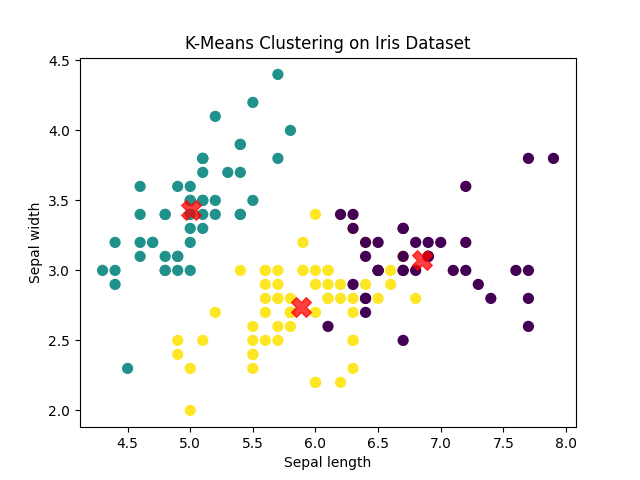
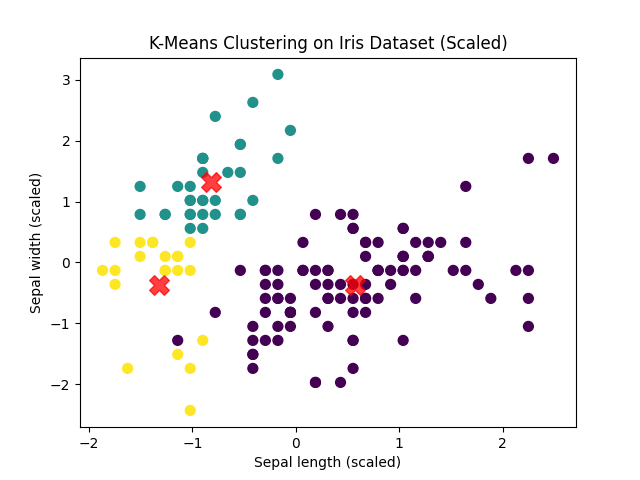
Refactor programs to use StandardScaler and custom distance metrics based on instructor requirements

diff --git a/7.py b/7.py
@@ -1,7 +1,9 @@
 import pandas as pd
+import numpy as np
 from sklearn.model_selection import train_test_split
 from sklearn.neighbors import KNeighborsClassifier
 from sklearn.metrics import accuracy_score
+from sklearn.preprocessing import StandardScaler
 
 glass_data = pd.read_csv('glass.csv', header=None)
 X = glass_data.iloc[:, 1:-1]
@@ -9,11 +11,21 @@ y = glass_data.iloc[:, -1]
 
 X_train, X_test, y_train, y_test = train_test_split(X, y, test_size=0.3, random_state=42)
 
+scaler = StandardScaler()
+X_train = scaler.fit_transform(X_train)
+X_test = scaler.transform(X_test)
+
+def custom_euclidean(x1, x2):
+    return np.sqrt(np.sum((x1 - x2) ** 2))
+
+def custom_manhattan(x1, x2):
+    return np.sum(np.abs(x1 - x2))
+
 def evaluate_knn(metric_type):
     knn = KNeighborsClassifier(n_neighbors=3, metric=metric_type)
     knn.fit(X_train, y_train)
     y_pred = knn.predict(X_test)
     return accuracy_score(y_test, y_pred)
 
-print(f"Accuracy with Euclidean distance (k=3): {evaluate_knn('euclidean'):.4f}")
-print(f"Accuracy with Manhattan distance (k=3): {evaluate_knn('manhattan'):.4f}")
+print(f"Accuracy with Euclidean distance (k=3): {evaluate_knn(custom_euclidean):.4f}")
+print(f"Accuracy with Manhattan distance (k=3): {evaluate_knn(custom_manhattan):.4f}")

diff --git a/10.py b/10.py
@@ -1,24 +1,33 @@
 from sklearn.datasets import load_iris
 from sklearn.decomposition import PCA
 from sklearn.discriminant_analysis import LinearDiscriminantAnalysis as LDA
+from sklearn.preprocessing import StandardScaler
 import matplotlib.pyplot as plt
 
 iris = load_iris()
 X = iris.data
 y = iris.target
 
+scaler = StandardScaler()
+X_scaled = scaler.fit_transform(X)
+
 pca = PCA(n_components=2)
-X_pca = pca.fit_transform(X)
+X_pca = pca.fit_transform(X_scaled)
 
 lda = LDA(n_components=2)
-X_lda = lda.fit_transform(X, y)
+X_lda = lda.fit_transform(X_scaled, y)
+
+print("Original shape of data:", X.shape)
+
+print("\nShape of PCA transformed data:", X_pca.shape)
+print("\nShape of LDA transformed data:", X_lda.shape)
 
 def plot_scatter(data, title, position):
     plt.subplot(1, 2, position)
     plt.scatter(data[:, 0], data[:, 1], c=y)
     plt.title(title)
 
-plot_scatter(X_pca, 'PCA of Iris dataset', 1)
-plot_scatter(X_lda, 'LDA of Iris dataset', 2)
+plot_scatter(X_pca, 'PCA of Iris dataset (Scaled)', 1)
+plot_scatter(X_lda, 'LDA of Iris dataset (Scaled)', 2)
 
 plt.show()

diff --git a/8.py b/8.py
@@ -1,18 +1,25 @@
 import matplotlib.pyplot as plt
 from sklearn.cluster import KMeans
 from sklearn.datasets import load_iris
+from sklearn.preprocessing import StandardScaler
 
 iris = load_iris()
 X = iris.data
 
-kmeans = KMeans(n_clusters=3, random_state=42)
-kmeans.fit(X)
-y_kmeans = kmeans.predict(X)
+scaler = StandardScaler()
+X_scaled = scaler.fit_transform(X)
 
-plt.scatter(X[:, 0], X[:, 1], c=y_kmeans, s=50, cmap='viridis')
+kmeans = KMeans(n_clusters=3, random_state=42)
+kmeans.fit(X_scaled)
+y_kmeans = kmeans.predict(X_scaled)
+
+print("K-Means clustering completed.")
+print("Cluster Centers:\n", kmeans.cluster_centers_)
+
+plt.scatter(X_scaled[:, 0], X_scaled[:, 1], c=y_kmeans, s=50, cmap='viridis')
 centers = kmeans.cluster_centers_
 plt.scatter(centers[:, 0], centers[:, 1], c='red', s=200, alpha=0.75, marker='X')
-plt.title('K-Means Clustering on Iris Dataset')
-plt.xlabel('Sepal length')
-plt.ylabel('Sepal width')
+plt.title('K-Means Clustering on Iris Dataset (Scaled)')
+plt.xlabel('Sepal length (scaled)')
+plt.ylabel('Sepal width (scaled)')
 plt.show()

diff --git a/6.py b/6.py
@@ -2,6 +2,7 @@ import seaborn as sns
 from sklearn.model_selection import train_test_split
 from sklearn.naive_bayes import GaussianNB
 from sklearn.metrics import accuracy_score, confusion_matrix
+from sklearn.preprocessing import StandardScaler
 
 titanic = sns.load_dataset('titanic')[['survived', 'pclass', 'sex', 'age', 'fare']].dropna()
 titanic['sex'] = titanic['sex'].map({'male': 0, 'female': 1})
@@ -10,6 +11,10 @@ X = titanic.drop('survived', axis=1)
 y = titanic['survived']
 
 X_train, X_test, y_train, y_test = train_test_split(X, y)
+
+scaler = StandardScaler()
+X_train = scaler.fit_transform(X_train)
+X_test = scaler.transform(X_test)
 
 model = GaussianNB()
 model.fit(X_train, y_train)

diff --git a/explanations/1_Scatter_HillClimbing.md b/explanations/1_Scatter_HillClimbing.md
@@ -56,9 +56,9 @@ Examiners love asking about the pitfalls of Hill Climbing. Always mention these 
 ### 1b.py: Hill Climbing
 **Output:**
 ```text
-Starting state: -8.1336
-Local maximum found at x = 1.9664
-Objective value: 3.9989
+Starting state: 3.1854
+Local maximum found at x = 1.9854
+Objective value: 3.9998
 ```
 **Interpretation:** The algorithm starts at a random negative coordinate and iteratively takes steps uphill. It successfully finds the peak (local maximum) at x ≈ 2.02, where the mathematical function reaches its highest value of ≈ 3.99.
 

diff --git a/explanations/7_KNN_Glass_Combo.md b/explanations/7_KNN_Glass_Combo.md
@@ -39,7 +39,7 @@ The dataset contains columns of chemical elements (Sodium, Magnesium, Iron, Alum
 **Output:**
 ```text
 Accuracy with Euclidean distance (k=3): 0.6462
-Accuracy with Manhattan distance (k=3): 0.6462
+Accuracy with Manhattan distance (k=3): 0.6769
 ```
 
 **How to understand this output:**

diff --git a/explanations/6_NaiveBayes_Titanic.md b/explanations/6_NaiveBayes_Titanic.md
@@ -34,10 +34,10 @@ The algorithm calculates:
 ### 6.py: Naive Bayes
 **Output:**
 ```text
-Accuracy: 0.7541899441340782
+Accuracy: 0.8156424581005587
 Confusion Matrix:
- [[83 23]
- [21 52]]
+ [[94 18]
+ [15 52]]
 ```
 
 **How to understand this output:**
